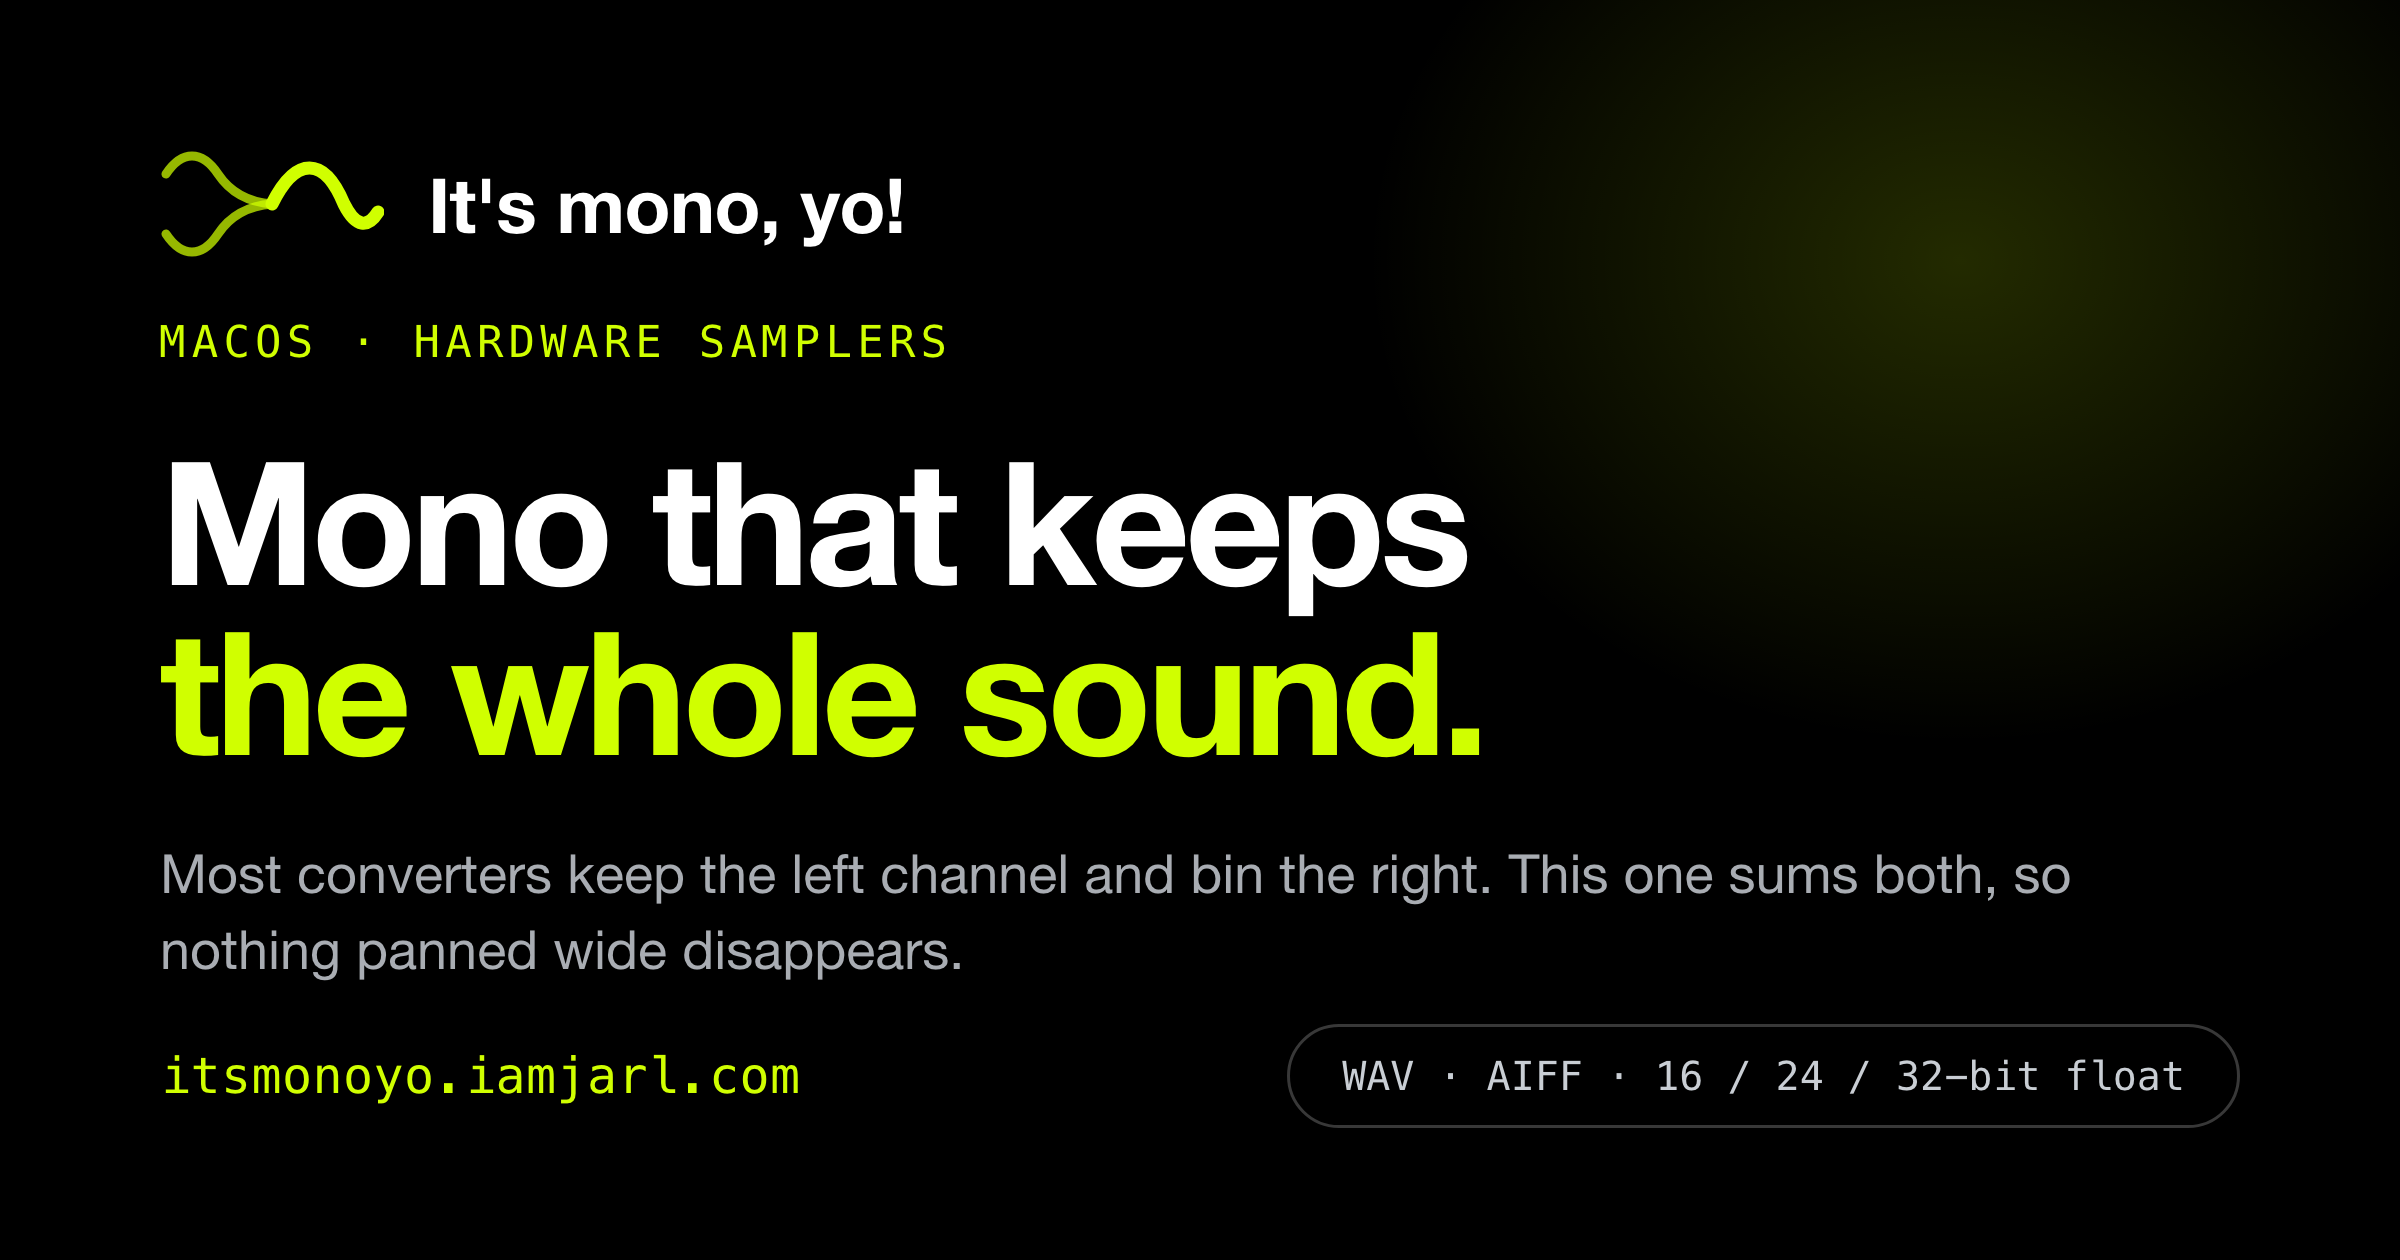
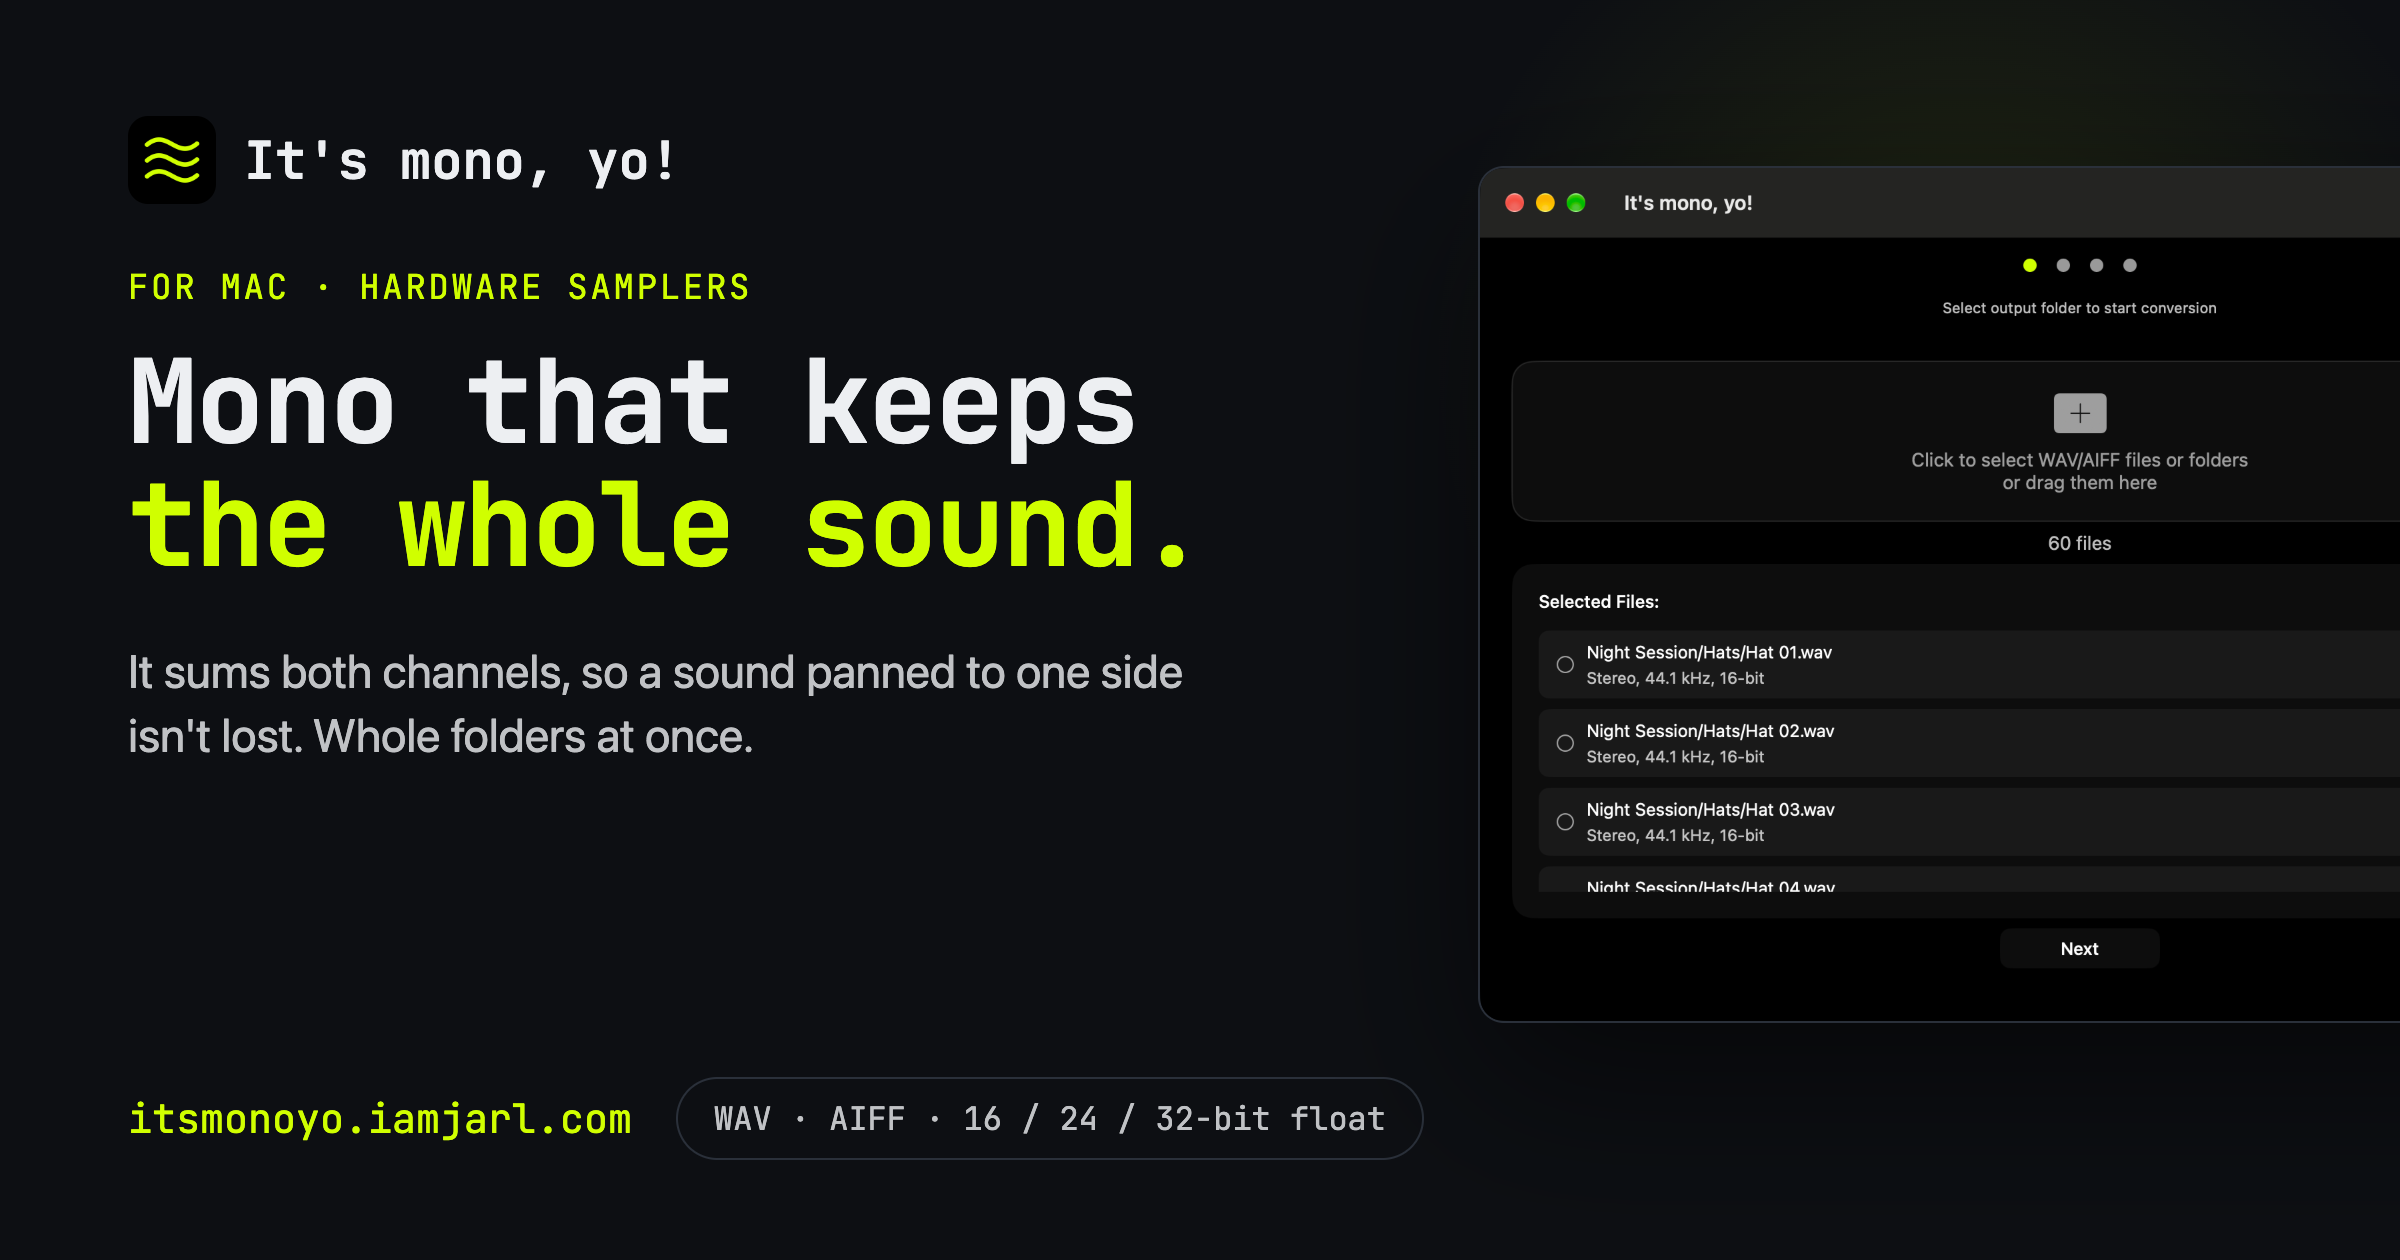
Follow-ups after #93: SP-404 claims, the site in the privacy policy, a new social card
- SP-404 guide, checked against Roland's SP-404MKII specifications:
  - sample length: Roland lists 16 minutes, about 185 MB per sample, which
    is 16 minutes of 16-bit, 48 kHz stereo. The guide says that, and that
    mono takes half the space per minute, in place of "over 32 minutes!";
  - polyphony: the specs give 32 voices and say nothing about what a
    stereo sample takes, so "stereo uses exactly two voices" and "double
    your voice count" go. The guide links the specs and points to the
    Reference Manual;
  - "As recently discussed extensively on r/SP404" and "a massive secret"
    go, as there's no thread to link;
  - the og and twitter descriptions drop "Save polyphony".
- why-hardware-samplers-need-mono: the SP-404 row drops "stereo counts as
  2 voices" and "doubles voice polyphony".
- privacy: a "This Website" section says the site counts anonymous page
  views with Umami, cookieless, separate from the app, as Walkful's does.
- assets/og.png: a new card in the new look, without "Most converters keep
  the left channel and bin the right". It says what It's mono does: "It
  sums both channels, so a sound panned to one side isn't lost." The home's
  og:image:alt follows. The owner re-uploads the GitHub social preview.

diff --git a/website/prepare-samples-roland-sp404.html b/website/prepare-samples-roland-sp404.html
@@ -9,13 +9,13 @@
     <meta name="robots" content="index, follow">
     <meta property="og:title" content="Prepare Samples for Roland SP-404 (WAV to Mono)">
     <meta property="og:description"
-        content="Convert stereo kicks and snares to mono before putting them on your Roland SP-404 SD card. Save polyphony and get punchy drums.">
+        content="Convert stereo kicks and snares to mono before putting them on your Roland SP-404 SD card. Save SD card space and keep stereo for the pads and chops that need it.">
     <meta property="og:url" content="https://itsmonoyo.iamjarl.com/prepare-samples-roland-sp404.html">
     <meta property="og:type" content="article">
     <meta property="og:image" content="https://itsmonoyo.iamjarl.com/assets/og.png">
     <meta name="twitter:card" content="summary_large_image">
     <meta name="twitter:title" content="Prepare Samples for Roland SP-404 (WAV to Mono)">
-    <meta name="twitter:description" content="Convert stereo kicks and snares to mono before putting them on your Roland SP-404 SD card. Save polyphony and get punchy drums.">
+    <meta name="twitter:description" content="Convert stereo kicks and snares to mono before putting them on your Roland SP-404 SD card. Save SD card space and keep stereo for the pads and chops that need it.">
     <meta name="twitter:image" content="https://itsmonoyo.iamjarl.com/assets/og.png">
     <meta name="apple-itunes-app" content="app-id=6758866918">
     <title>Prepare Samples for Roland SP-404 (WAV to Mono Guide)</title>
@@ -88,11 +88,11 @@
 
             <h2 class="text-2xl font-bold mb-4 text-black dark:text-white">Why Convert SP-404 Samples to Mono?</h2>
             <p class="text-black/70 dark:text-white/75 mb-6 leading-relaxed">
-                Even though the SP-404 is a stereo sampler, a massive secret among experienced beatmakers is bouncing their core elements to mono. As recently discussed extensively on r/SP404 (including feedback from users of the SX, A, and MK2), there are massive benefits to dropping stereo when you do not absolutely need it:
+                Even though the SP-404 is a stereo sampler, many beatmakers bounce their core elements to mono. There are good reasons to drop stereo when you do not need it:
             </p>
             <ol class="list-decimal list-inside text-black/70 dark:text-white/75 mb-8 space-y-2">
-                <li><strong>Double Your Polyphony:</strong> Stereo samples use exactly two voices of polyphony. The SP-404 typically has a max polyphony limit (e.g., 16 stereo voices or 32 mono voices). By converting drums to mono, you literally double your voice count to 32, freeing up voices for long stereo pads and vocal chops!</li>
-                <li><strong>Bypass the Max Sample Length Limit:</strong> Several SP-404 models have a strict time limit per pad. With a stereo sample, you are limited to 16 minutes, while with a mono sample, you can trigger a single track for over 32 minutes!</li>
+                <li><strong>Polyphony:</strong> The SP-404MKII plays up to 32 voices at once, according to <a href="https://www.roland.com/global/products/sp-404mk2/specs/" class="text-primary-light dark:text-primary-dark hover:opacity-80">Roland's specifications</a>. They don't say how many voices a stereo sample takes, so check your model's Reference Manual before counting on mono for more voices.</li>
+                <li><strong>Longer samples in the same space:</strong> Roland lists the SP-404MKII's maximum sampling time as 16 minutes, about 185 MB per sample. That size is 16 minutes of 16-bit, 48 kHz stereo. A mono file takes half the space per minute.</li>
                 <li><strong>SD Card Storage:</strong> A mono file uses exactly half the storage size. When you batch convert large drum kits to mono, your SD card holds double the amount of sounds.</li>
                 <li><strong>Punch and Phase Alignment:</strong> A mono kick drum simply hits harder. It cuts through the center of the mix without phase cancellation issues on large sound systems.</li>
             </ol>

diff --git a/website/privacy.html b/website/privacy.html
@@ -61,7 +61,7 @@
             <h1 class="text-4xl md:text-5xl font-extrabold mb-8 text-black dark:text-white">Privacy Policy</h1>
             <div class="prose dark:prose-invert max-w-none text-black/80 dark:text-white/80">
                 <p class="text-lg mb-8">
-                    Last updated: October 13, 2026
+                    Last updated: October 15, 2026
                 </p>
 
                 <h2 class="text-2xl font-bold mb-4 text-black dark:text-white">Introduction</h2>
@@ -83,6 +83,11 @@
                 <h2 class="text-2xl font-bold mb-4 text-black dark:text-white">Local File Processing</h2>
                 <p class="mb-6">
                     All audio file conversions are performed locally on your Mac using macOS's own audio frameworks (AudioToolbox and AVFoundation). Your audio files are never uploaded to any server or cloud service. They remain on your device at all times.
+                </p>
+
+                <h2 class="text-2xl font-bold mb-4 text-black dark:text-white">This Website</h2>
+                <p class="mb-6">
+                    This website (itsmonoyo.iamjarl.com) is separate from the app. It uses Umami, a privacy-friendly, cookieless analytics tool, to count anonymous page views. It sets no cookies and does not collect personal data or build profiles.
                 </p>
 
                 <h2 class="text-2xl font-bold mb-4 text-black dark:text-white">Changes to This Policy</h2>

diff --git a/website/why-hardware-samplers-need-mono.html b/website/why-hardware-samplers-need-mono.html
@@ -115,8 +115,8 @@
                         <tr>
                             <td class="p-4 font-semibold text-black dark:text-white">Roland SP-404 MK2</td>
                             <td class="p-4">16/24/32-bit, 48kHz WAV</td>
-                            <td class="p-4">Supports both (stereo counts as 2 voices)</td>
-                            <td class="p-4">Doubles voice polyphony (up to 32 voices) and halves memory storage.</td>
+                            <td class="p-4">Supports both</td>
+                            <td class="p-4">Halves the storage per sample. The MKII plays up to 32 voices.</td>
                         </tr>
                         <tr>
                             <td class="p-4 font-semibold text-black dark:text-white">Elektron Digitakt (OG)</td>

diff --git a/website/index.html b/website/index.html
@@ -22,7 +22,7 @@
 <meta property="og:image" content="https://itsmonoyo.iamjarl.com/assets/og.png">
 <meta property="og:image:width" content="1200">
 <meta property="og:image:height" content="630">
-<meta property="og:image:alt" content="It&#39;s mono, yo! Mono that keeps the whole sound. Most converters keep the left channel and bin the right; this one sums both.">
+<meta property="og:image:alt" content="It&#39;s mono, yo! Mono that keeps the whole sound. It sums both channels, so a sound panned to one side isn&#39;t lost. Beside it, the app window with a folder of 60 samples.">
 <meta property="og:locale" content="en_US">
 <meta name="twitter:card" content="summary_large_image">
 <meta name="twitter:title" content="It's mono, yo! - WAV &amp; AIFF to Mono Converter for macOS">
